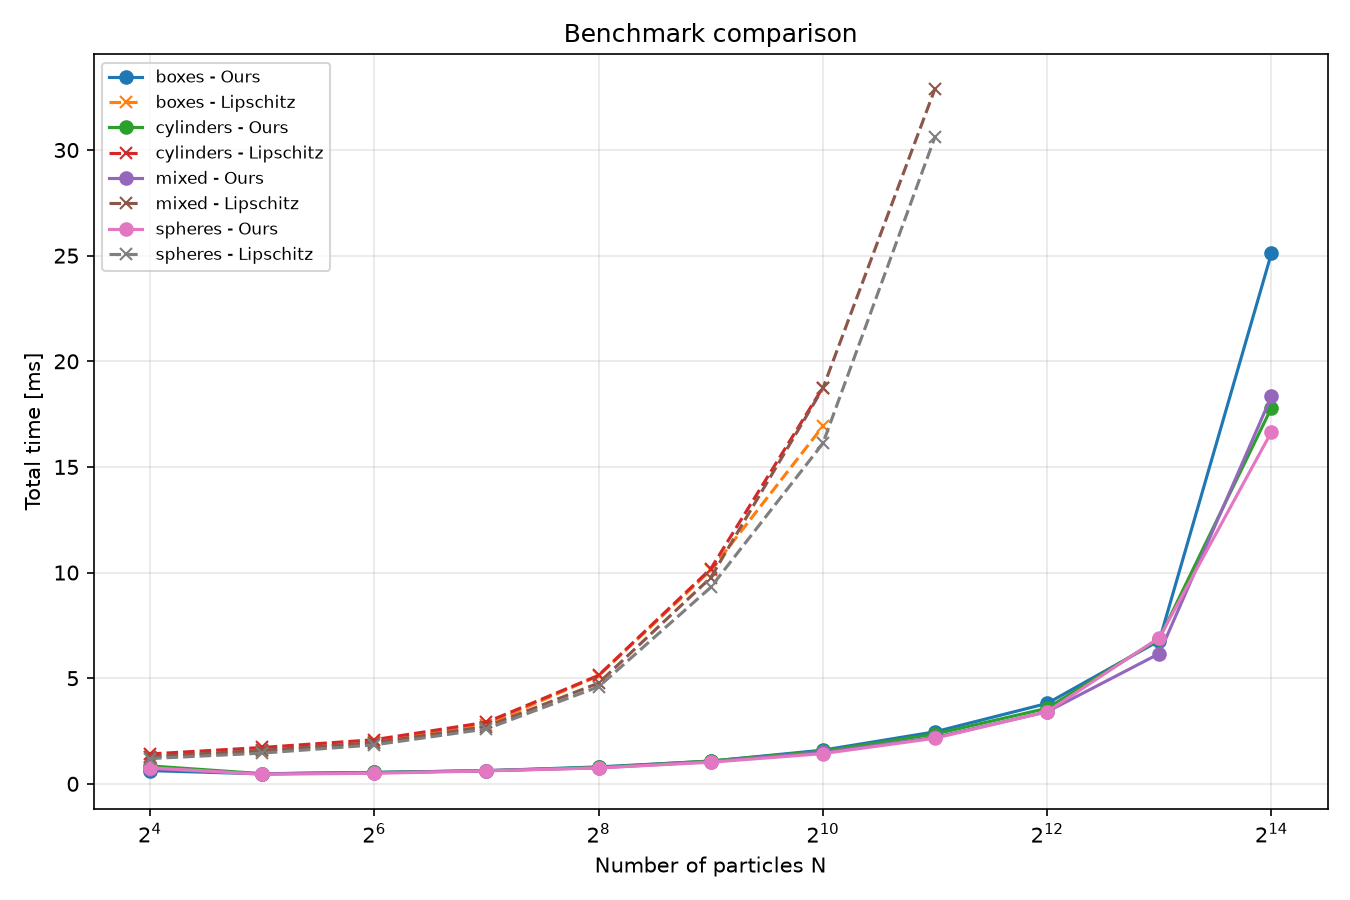
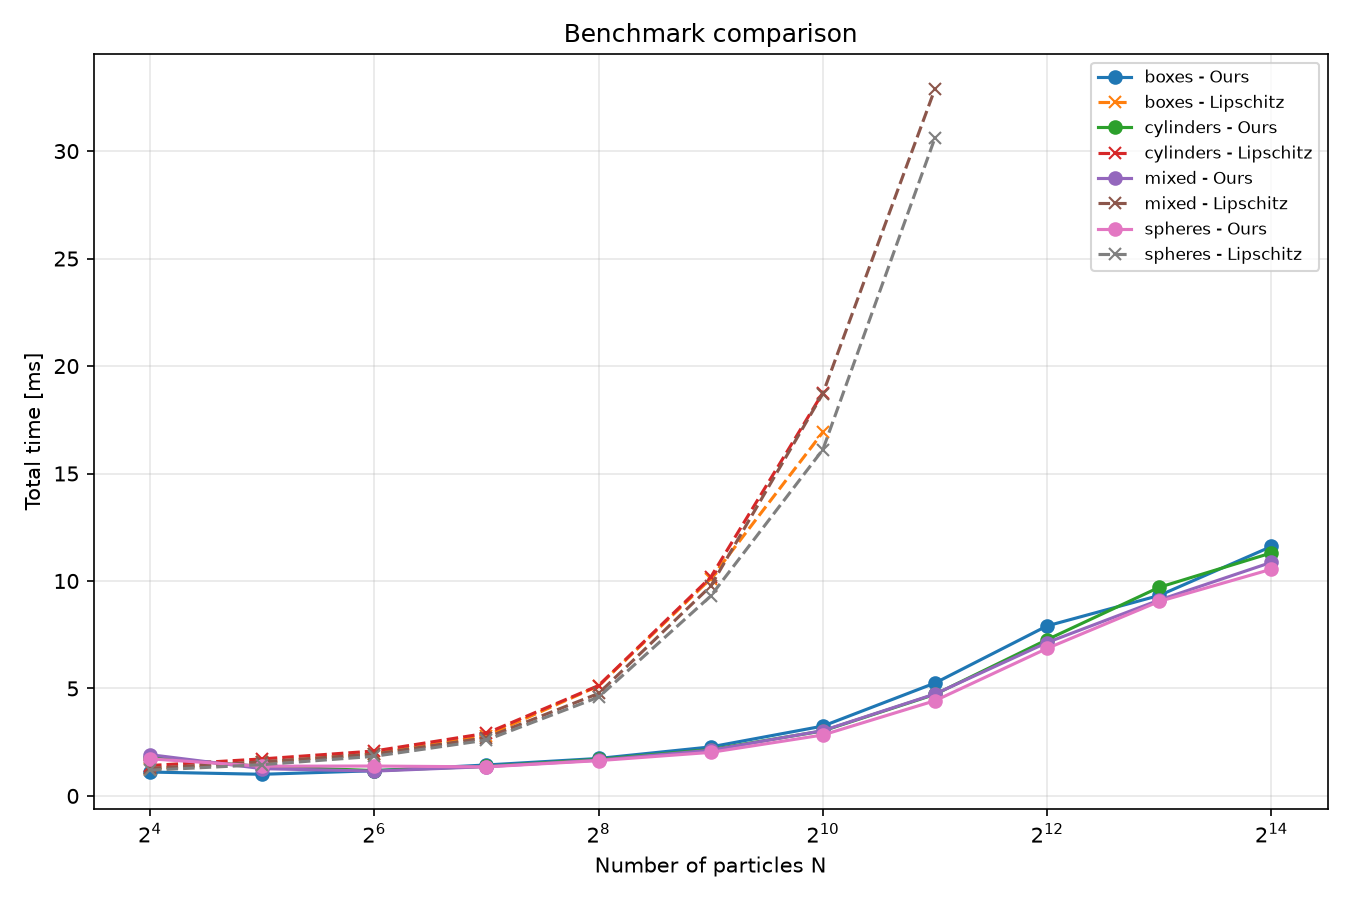
Working object accel strcuts with ray query, UNOPTIMIZED

diff --git a/main.cpp b/main.cpp
@@ -20,6 +20,7 @@
 // This is an extension from the proyect template of nvpro_core2
 
 
+#include <cassert>
 #define VMA_IMPLEMENTATION
 
 #include <vulkan/vulkan_core.h>
@@ -790,11 +791,13 @@ public:
   }
 
   void updateObjInstances(VkCommandBuffer cmd){
+    const auto profiledSection = m_profilerGpuTimer.cmdFrameSection(cmd, "Update Object instances");
+
     // Bind pipeline
     bindComputePipeline(cmd,&m_objASupdatePipeline);
     // Dispatch
-    const uint32_t numGroups = (m_pushConst.numObjects + 7) / 8;
-    vkCmdDispatch(cmd, numGroups, 1, 1);
+    const uint32_t numGroups = (MAX_SCENE_OBJECTS + 7) / 8;
+    vkCmdDispatch(cmd, numGroups, 1, CLIPMAP_LEVELS);
 
     // End barrier
     VkMemoryBarrier2 barrier{
@@ -918,7 +921,7 @@ public:
     NVVK_DBG_SCOPE(cmd);
 
     updateObjInstances(cmd);
-    updateObjTLAS(cmd, false);
+    updateObjTLAS(cmd, true);
 
     executeBuildJobs(cmd);
     executeBrickJobs(cmd);
@@ -1548,11 +1551,7 @@ public:
   }
 
   void updateObjTLAS(VkCommandBuffer cmd, bool rebuild) {
-    const auto profiledSection =
-        m_profilerGpuTimer.cmdFrameSection(cmd, "Obj AS update");
-
-    if (rebuild)
-      LOGI("REBUILDING OBJ TLAS\n");
+    const auto profiledSection = m_profilerGpuTimer.cmdFrameSection(cmd, "Object AS update");
 
     VkMemoryBarrier barrier{
         .sType = VK_STRUCTURE_TYPE_MEMORY_BARRIER,
@@ -1890,7 +1889,7 @@ public:
                                           | VK_BUFFER_USAGE_ACCELERATION_STRUCTURE_BUILD_INPUT_READ_ONLY_BIT_KHR
                                           | VK_BUFFER_USAGE_TRANSFER_DST_BIT
                                         ));
-        NVVK_DBG_NAME(m_instancesBrick.buffer);
+        NVVK_DBG_NAME(m_instancesObj[i].buffer);
       }
 
       // ------------------

diff --git a/shaders/shaderio.h b/shaders/shaderio.h
@@ -198,8 +198,8 @@ enum BindingPoints{
   tLasBrick,
   instancesBrick,
   tLasObj,
-  instancesObj,
-  clipMap,
+  instancesObj = tLasObj + CLIPMAP_LEVELS,
+  clipMap = instancesObj + CLIPMAP_LEVELS,
   brickAtlas,
   matAtlas,
   nearObjectList,
